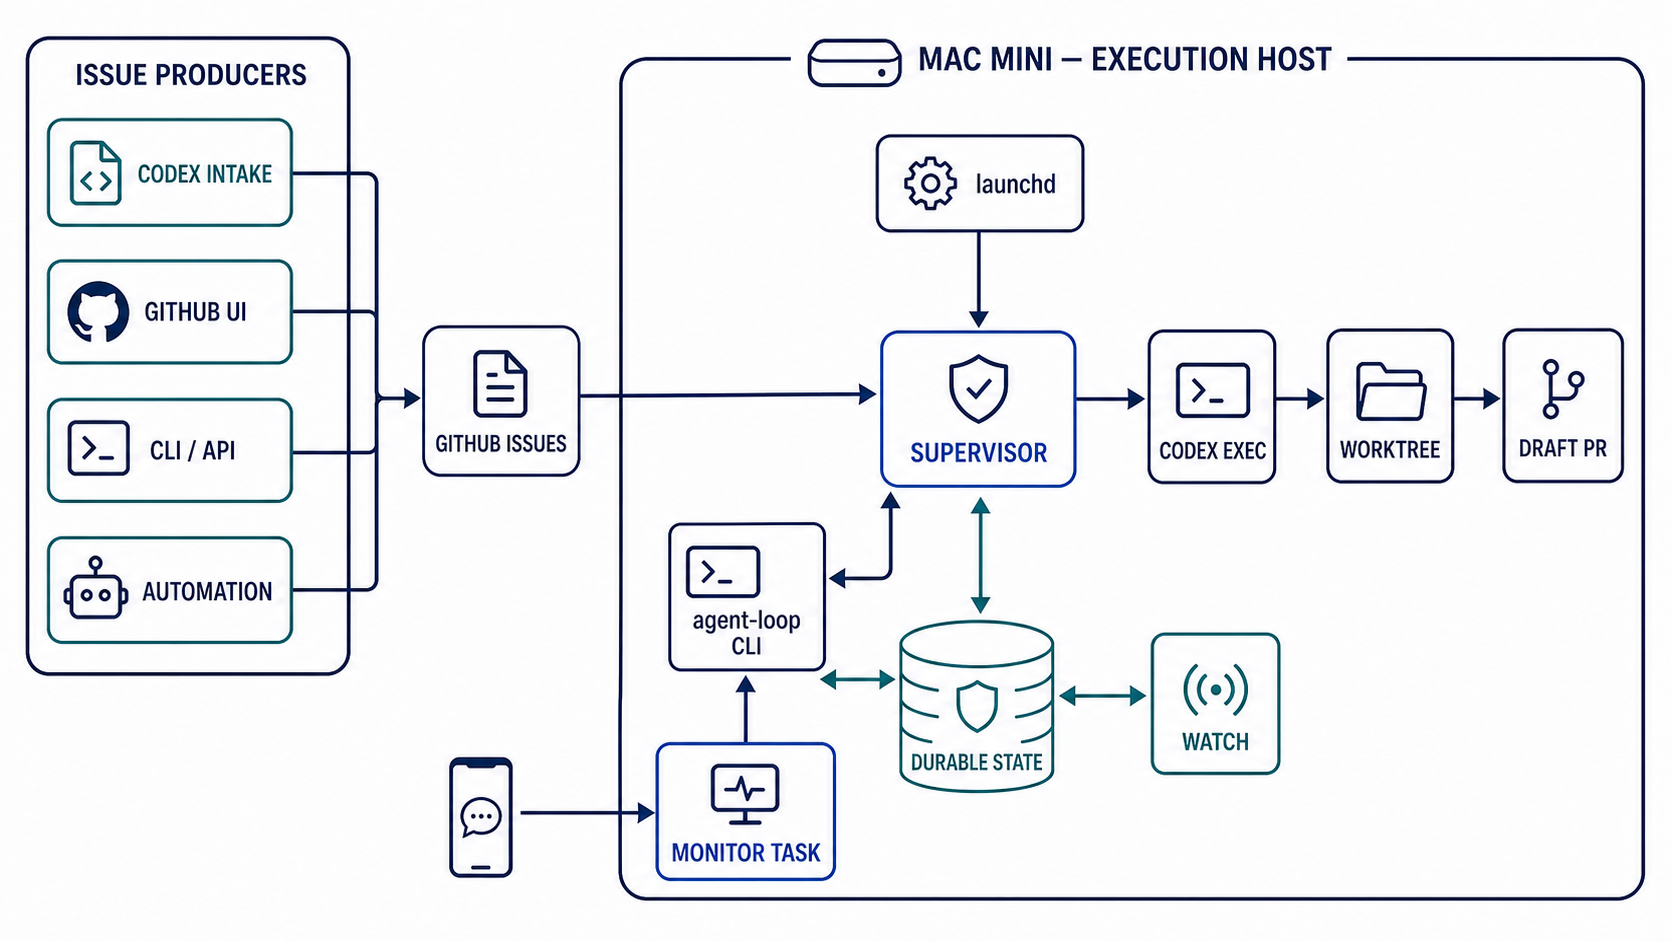
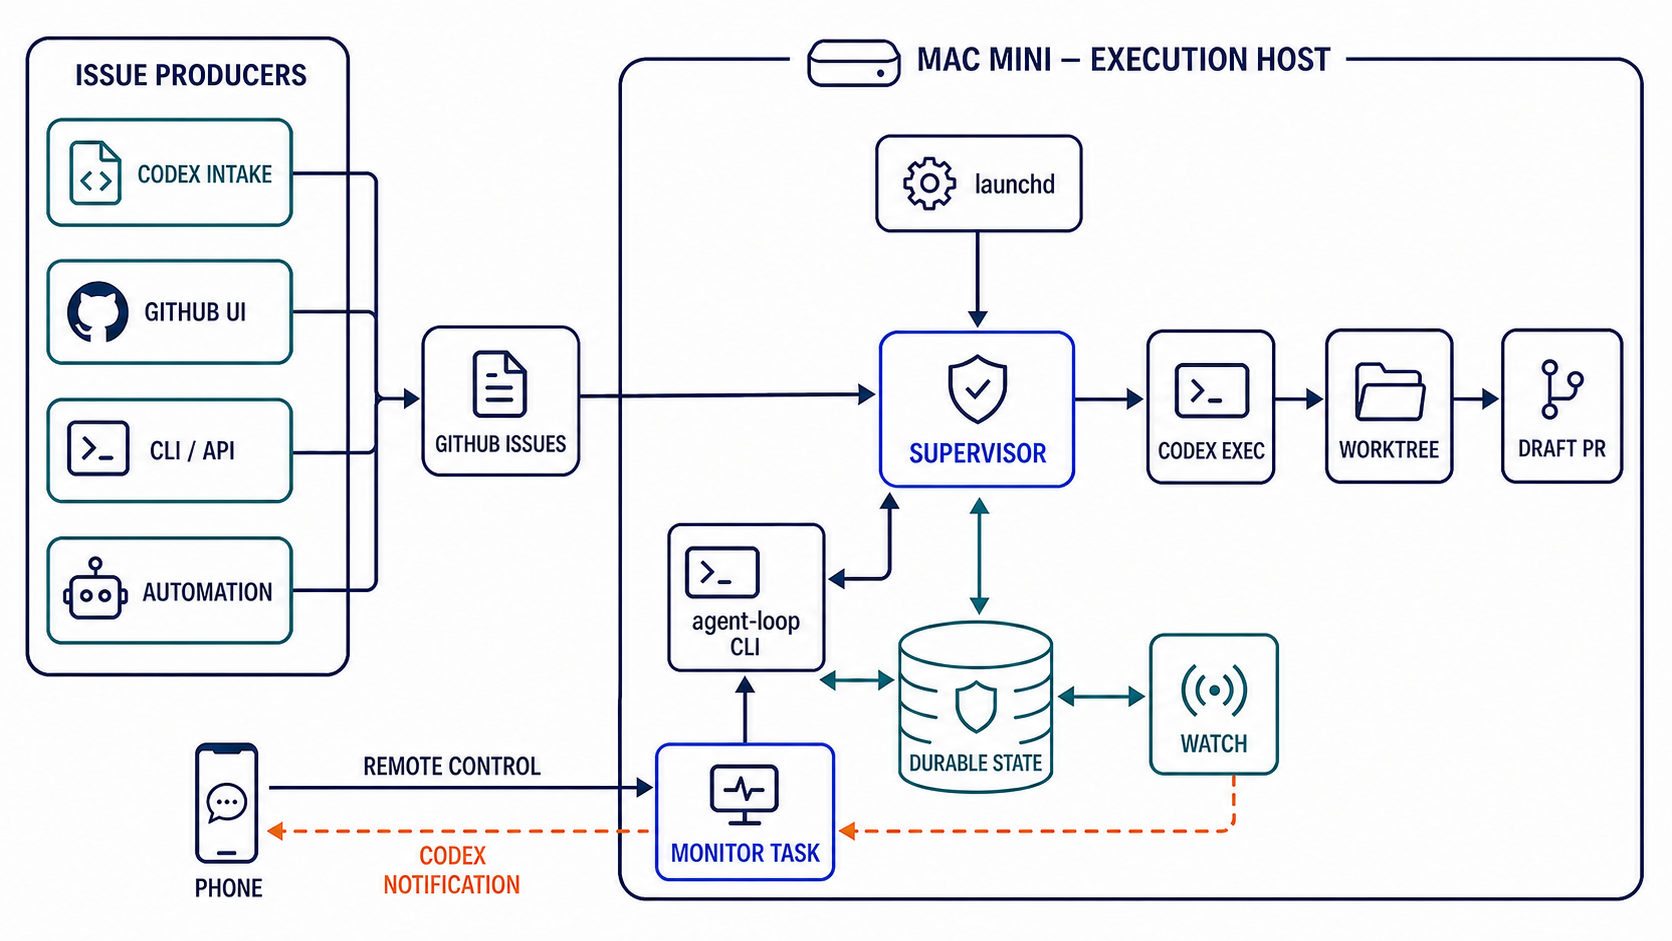
docs: スマホ通知経路を図示する

diff --git a/docs/specification.md b/docs/specification.md
@@ -20,6 +20,7 @@ Issue producers (outside Mac mini)
                                                   ▼
 Mac mini — execution host
   ├─ ChatGPT mobile app ── Codex Remote ──► [LOOP] monitor task
+  │          ◄──────────── Codex notification ────────┘
   │                                             └─ Skill ──► agent-loop CLI
   │                                                            ├─ start ──► launchctl ──► launchd
   │                                                            ├─ status / answer ───────────┤
@@ -28,6 +29,8 @@ Mac mini — execution host
   └─ supervisor ◄──────── GitHub Issues                            durable state/events
          └─ pick/claim ──► worktree + codex exec ──► branch / draft PR
 ```
+
+Codex notificationは、`watch`がattention状態を返した監視taskからChatGPTモバイルアプリへ届く。supervisorや永続状態からスマートフォンへ直接pushするadapterは、この経路に含めない。
 
 ### 2.1 責務境界
 

diff --git a/docs/architecture.md b/docs/architecture.md
@@ -16,6 +16,8 @@
 
 図中の `DURABLE STATE` がループ状態の正本である。socket等のevent通知は即時性のために使い、60秒間隔のreconciliationで通知の取りこぼしを修復する。
 
+スマートフォンから監視taskへの紺色の矢印はCodex Remoteによる操作経路、`WATCH`から監視taskを経てスマートフォンへ戻るオレンジ色の破線はCodexの通知経路を表す。後者は`watch`が`needs_input`等のattention状態を返したときに監視taskから届く通知であり、supervisorからスマートフォンへの直接pushではない。
+
 ## 3. コンポーネントと責務
 
 | コンポーネント | 実行主体 | 主な責務 |
